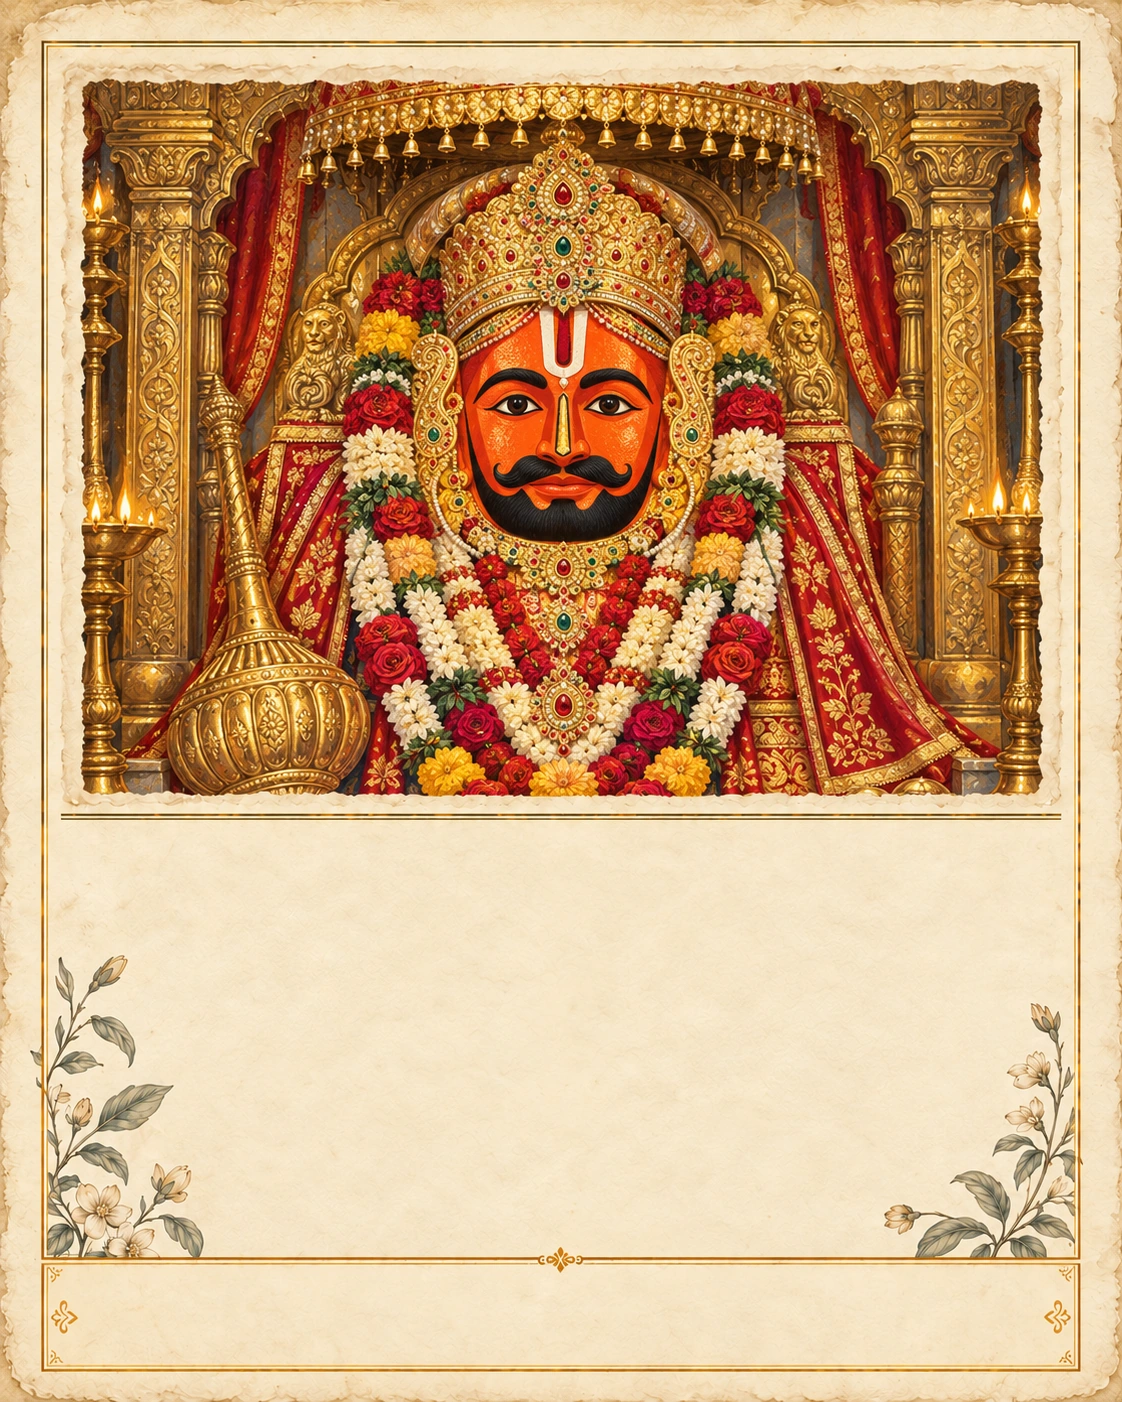
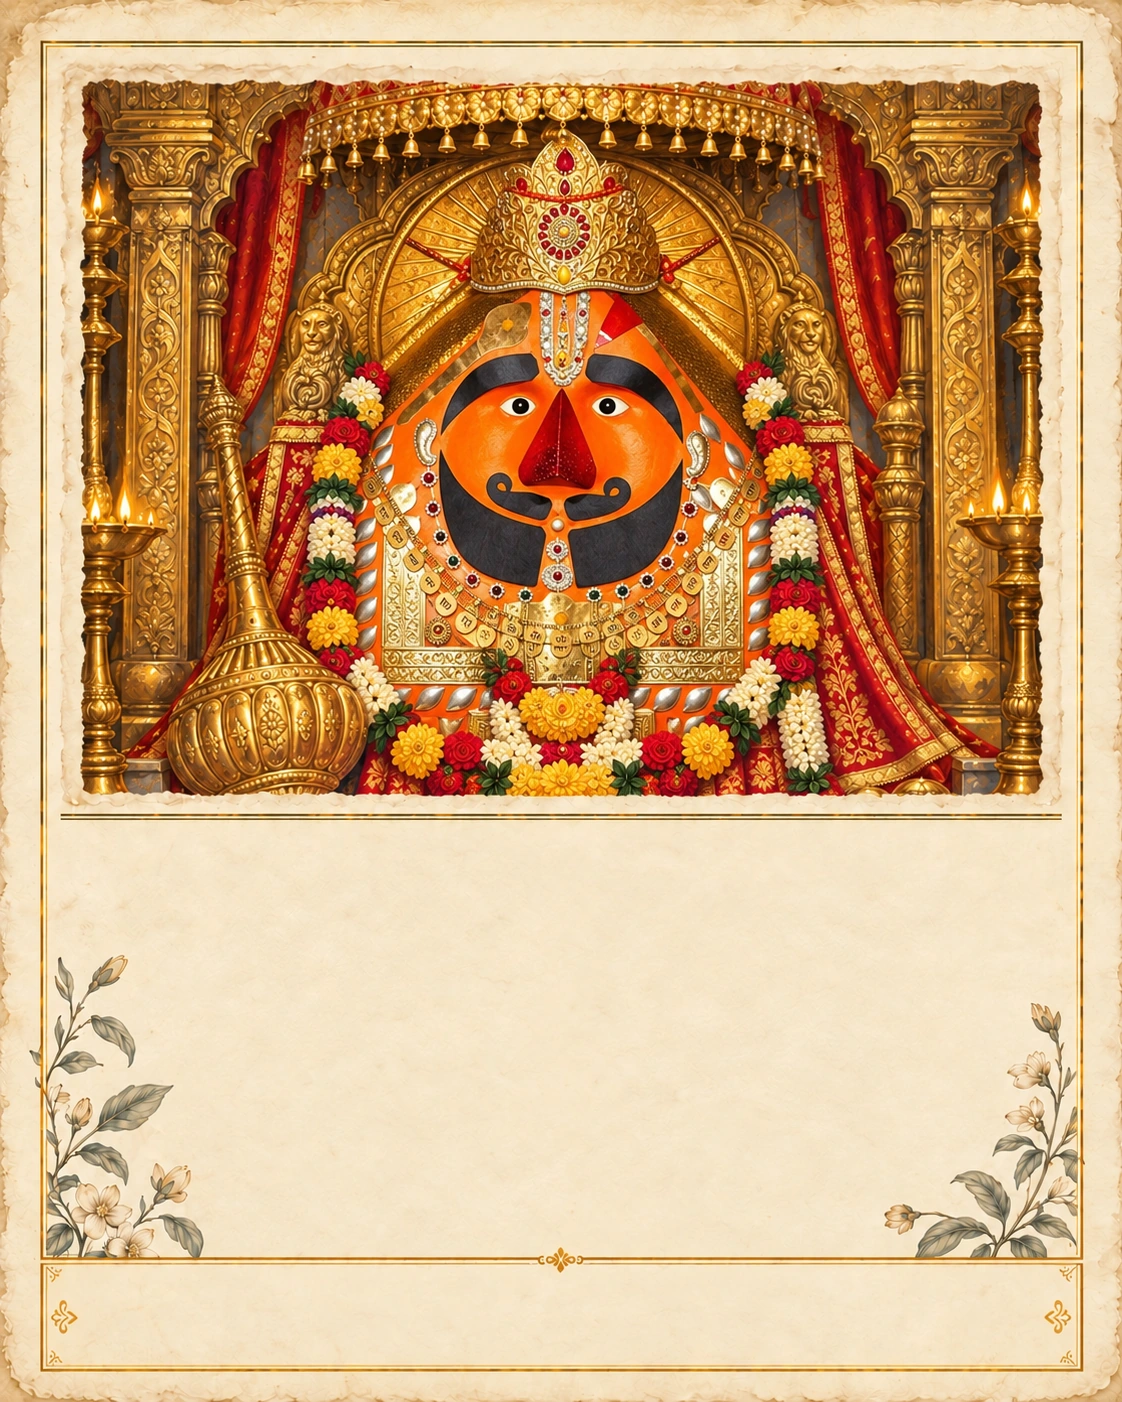
Correct all three Salasar Balaji artworks using shrine identity reference

diff --git a/mobile/src/data/__tests__/suvichar.jest.test.ts b/mobile/src/data/__tests__/suvichar.jest.test.ts
@@ -41,7 +41,7 @@ it('keeps exactly 42 complete unique source masters with matching provenance has
     expect(hash).toBe(a.sha256); hashes.add(hash); total += bytes.length;
     expect(a.heroFraction).toBe(suvicharHeroFraction(a.deity, a.frame));
     expect(a.width / a.height).toBeGreaterThan(.78); expect(a.width / a.height).toBeLessThan(.82);
-    expect(a.width).toBeGreaterThanOrEqual(1080); expect(a.prompt).toMatch(/Subject:|Edit target:/);
+    expect(a.width).toBeGreaterThanOrEqual(1080); expect(a.prompt).toMatch(/Subject:|Use case: precise-object-edit/);
     expect(a.authoringPngSha256).toMatch(/^[a-f0-9]{64}$/);
   }
   expect(hashes.size).toBe(42); expect(total).toBeLessThan(30 * 1024 * 1024);

diff --git a/docs/content/suvichar/README.md b/docs/content/suvichar/README.md
@@ -6,7 +6,7 @@ The card follows Option 2: complete artwork above readable text, a separate opti
 
 ## Artwork
 
-42 full-resolution WebP masters were generated with the built-in image-generation tool, using the three user-approved frame references. Full prompts, dimensions, authoring PNG hashes and exact delivered SHA-256 hashes are recorded in [sources.json](../../../mobile/assets/suvichar/sources.json). Combined delivery size is 24444066 bytes. All 42 files were fully decoded and visually inspected in five contact sheets on 22 October 2026. Native preview/export review remains pending.
+42 full-resolution WebP masters were generated with the built-in image-generation tool, using the three user-approved frame references. Full prompts, dimensions, authoring PNG hashes and exact delivered SHA-256 hashes are recorded in [sources.json](../../../mobile/assets/suvichar/sources.json). Combined delivery size is 24095482 bytes. All 42 files were fully decoded and visually inspected in five contact sheets on 22 October 2026. Native preview/export review remains pending.
 
 The composition review checked text-free paper, complete figures, deity-specific attributes and distinct shrine forms: Ram Darbar has Ram, Sita, Lakshman and Hanuman; Salasar has the vermilion bearded/moustached shrine face; Khatu Shyam is the crowned sheesh presentation; Tirupati is the dark-stone Venkateswara murti with namam and four arms. These are original illustrations, not claims of photographic temple darshan. Reviewed hero fractions are .60 for the straight frames, .64 for floral scenes and .62 for Tirupati’s temple frame.
 
@@ -30,6 +30,8 @@ The table below links every full-resolution frame. Each background has a blank m
 | तिरुपति बालाजी | [मंदिर झरोखा](../../../mobile/assets/suvichar/tirupati-balaji--mandir-jharokha.webp) | [पुष्प आँगन](../../../mobile/assets/suvichar/tirupati-balaji--pushp-aangan.webp) | [भक्ति पत्र](../../../mobile/assets/suvichar/tirupati-balaji--bhakti-patra.webp) |
 
 Hanuman's three backgrounds were revised on 23 October: मंदिर झरोखा and भक्ति पत्र show an open-palm blessing; पुष्प आँगन shows joyful bhajan with one pair of brass manjira. The frame count remains three, with distinct poses rather than three namaste compositions. Updated source hashes and edit prompts are in sources.json; publication and native inspection remain pending.
+
+Salasar's three backgrounds were corrected on 23 October against a darshan photograph: the broad sindoor-covered shrine form, round white eyes, prominent triangular red nose and flat painted moustache/beard replace the rejected naturalistic human faces. The photo reference URL, edit prompts and revised hashes are recorded in sources.json. These remain original illustrated interpretations; native review is pending.
 
 ## Text directory and occasions
 

diff --git a/docs/content/suvichar/VALIDATION.md b/docs/content/suvichar/VALIDATION.md
@@ -66,3 +66,7 @@ TypeScript passed and all 32 focused Suvichar tests passed after this fix, cover
 Access was checked again: no R2 credentials, Wrangler login, Android SDK, adb, Maestro, xcrun or emulator is available in this workspace. Publishing and actual native WhatsApp verification therefore remain blocked; no hashes were activated.
 
 Production Expo/Hermes exports subsequently passed for both iOS and Android on the capture-fix code commit. Both asset maps were inspected against all 42 source master IDs and the Suvichar source directory; neither bundle contains any Suvichar background. Exact export/asset-map hashes are recorded in export-verification.json. These are JavaScript compilation and asset-graph checks, not installed-native or WhatsApp verification.
+
+## Salasar identity correction — 23 October 2026
+
+The earlier generic bearded human faces were rejected. All three Salasar masters were regenerated using a darshan photograph as the identity reference, preserving the broad monolithic sindoor form, round white eyes, triangular red nose and flat painted moustache/beard. The frame and message-paper boundaries were visually reviewed. Reference URL, exact prompts, PNG hashes and replacement WebP hashes are recorded in sources.json. All 42 WebPs decode and the 10 source/provenance tests pass. Native/WhatsApp review and R2 publication remain pending. The corrected review prototype preserves all 42 selections and 1,000 draft records.

diff --git a/wiki/subsystems/suvichar.md b/wiki/subsystems/suvichar.md
@@ -2,7 +2,7 @@
 title: Suvichar personalized cards
 type: subsystem
 sources: [mobile/src/screens/SuvicharScreen.tsx, mobile/src/components/SuvicharCard.tsx, mobile/src/data/suvichar.ts, scripts/prepare-suvichar.mjs]
-last_verified_date: 2026-10-22
+last_verified_date: 2026-10-23
 confidence: high
 status: current
 ---
@@ -20,3 +20,5 @@ Preferences and up to 50 complete favorites use the versioned `@vedansh/suvichar
 
 ## Gotchas
 The runtime manifest is empty until all source artwork is published and byte-verified by prepare-suvichar.mjs. This blocks image sharing and is a merge blocker, not a successful publication. All 42 source backgrounds were decoded and inspected in five contact sheets; native WhatsApp/device checks remain required. No new master belongs in the bundled asset graph.
+
+Salasar identity requires a shrine photo reference: the broad orange monolithic form, round eyes, triangular red nose and flat painted moustache/beard are essential. A naturalistic bearded human head was rejected despite matching the descriptive keywords. All three masters were corrected on 23 October; original frames and reviewed paper boundaries remain.

diff --git a/wiki/log.md b/wiki/log.md
@@ -1108,3 +1108,7 @@ Ten hand-rolled list-row cards (four paddings, five thumb sizes, three shadow ti
 
 ## [2026-10-22] ingest | Suvichar capture verification
 Native view-shot requires both dimensions for Android resizing and UIKit point scaling. Composer now exports proportional 1080-pixel images from measured height and rechecks readiness/identity before capture; 32 focused tests passed. R2 credentials and native device tooling remain unavailable.
+
+## [2026-10-23] ingest | Salasar Suvichar shrine identity correction
+
+Replaced all three rejected naturalistic human faces using a Salasar darshan photo reference. The shrine form and geometric facial features are part of deity identity; beard/moustache keywords alone were insufficient. Updated source provenance and the review prototype; all 42 masters decode and 10 source tests pass. R2/native checks remain pending.
